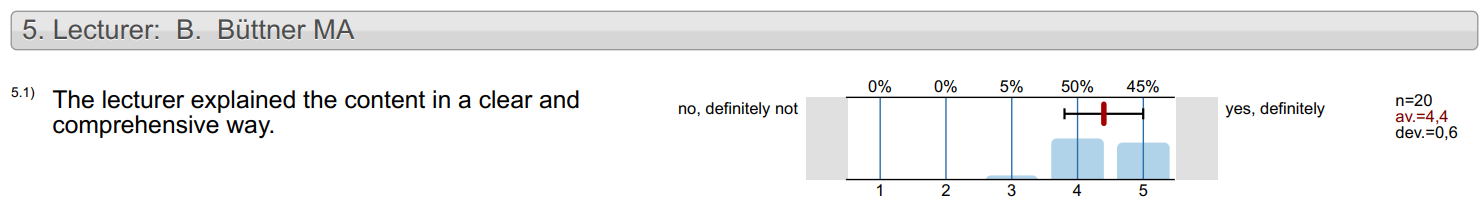
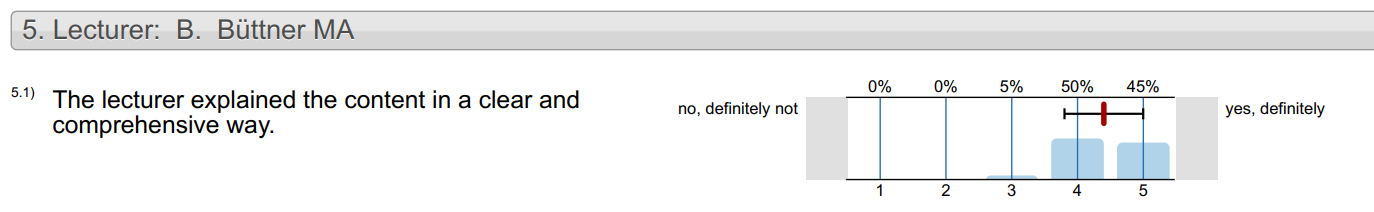
fixed teaching display

diff --git a/_pages/teaching.md b/_pages/teaching.md
@@ -11,18 +11,12 @@ nav_order: 6
 ## University Teaching
 
 <div class="projects">
-{% for category in page.display_categories %}
-  <a id="{{ category }}" href=".#{{ category }}">
-    <h2 class="category">{{ category }}</h2>
-  </a>
-  {% assign categorized_teaching = site.teaching | where: "category", category %}
-  {% assign sorted_teaching = categorized_teaching | sort: "importance" %}
+  {% assign sorted_teaching = site.teaching | sort: "importance" %}
   <div class="row row-cols-1 row-cols-md-3">
     {% for t in sorted_teaching %}
       {% include projects.liquid project=t %}
     {% endfor %}
   </div>
-{% endfor %}
 </div>
 
 ---

diff --git a/_teaching/patents-standards.md b/_teaching/patents-standards.md
@@ -7,7 +7,6 @@ role: Seminar Instructor
 category: university
 importance: 4
 img: /assets/img/teaching/patents_standards.png
-permalink: /teaching/patents-standards/
 ---
 
 TA in a seminar on the strategic use of IP rights and standards. Supported students during seminars, answered lecture-related questions, and graded assignments.

diff --git a/_teaching/network-society.md b/_teaching/network-society.md
@@ -7,7 +7,6 @@ role: Lecturer
 category: university
 importance: 1
 img: /assets/img/teaching/network_soc.png
-permalink: /teaching/network-society/
 ---
 
 Lecture-based course on how to analyze and interpret patent-citation networks. Topics included network metrics and diffusion dynamics using `Pajek`.

diff --git a/_teaching/econ-innovation.md b/_teaching/econ-innovation.md
@@ -7,7 +7,6 @@ role: Seminar Instructor
 category: university
 importance: 2
 img: /assets/img/teaching/econ_inno_intro.png
-permalink: /teaching/econ-innovation/
 ---
 
 Accompanying seminar to the main lecture. Covered empirical examples and key concepts in innovation systems and diffusion.

diff --git a/_teaching/econ-policy.md b/_teaching/econ-policy.md
@@ -7,7 +7,6 @@ role: Seminar Instructor
 category: university
 importance: 3
 img: /assets/img/teaching/econ_pol.png
-permalink: /teaching/econ-policy/
 ---
 
 Seminar focused on applying economic theory to policy. Students worked on examples of market failures, R&D subsidies, and regulation.
